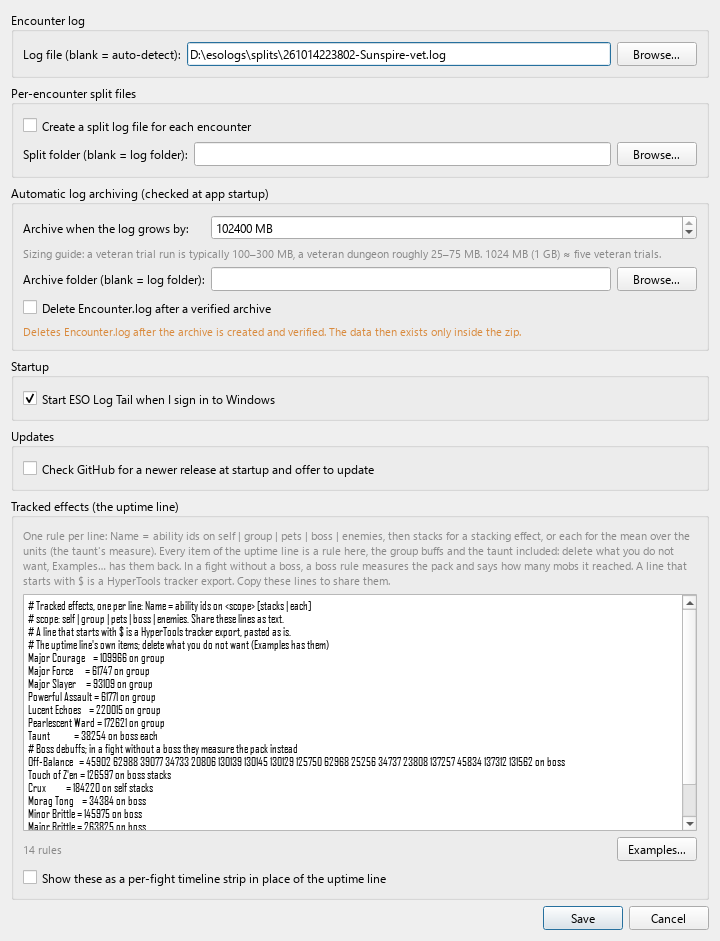
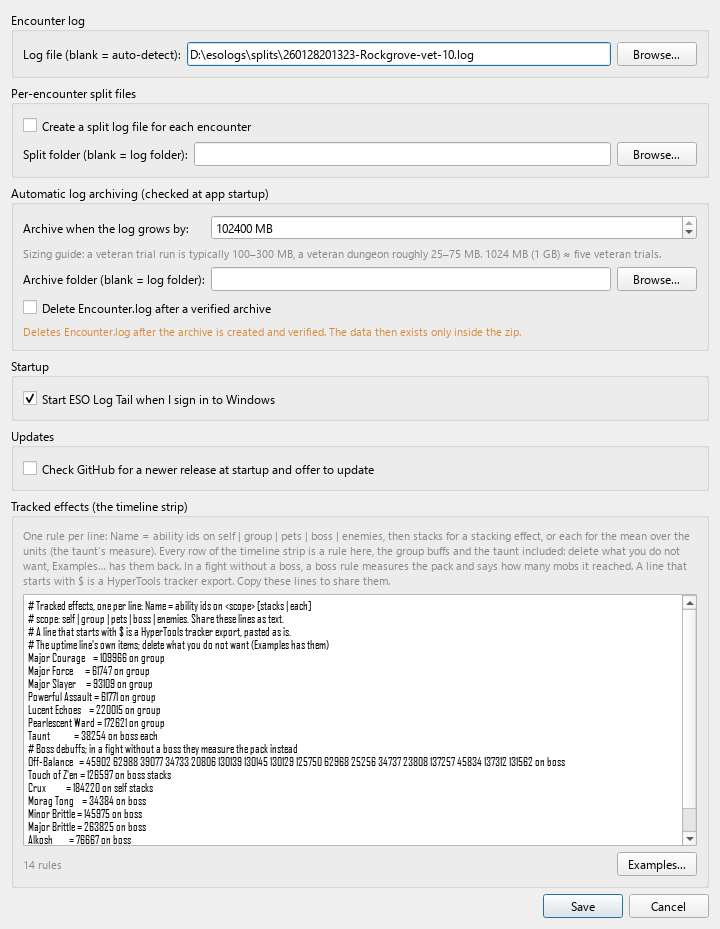
feat: the timeline strip is always on and the text uptime line goes (#25)
The strip is now the only view of the tracked effects in the fight pane:
the Settings checkbox and the experimental.buff_timeline key are gone (an
old config's key, either way, is dropped on load and left out on the next
Save), the engine always records the timeline, and the fight pane no
longer draws the text uptime line, since each row's label already carries
the rule's text. Copy fight keeps the line. A fight in which none of the
built-in effects was up has no recorded timeline; strip_timeline gives
the strip the fight's length so its tracked rows still show.

The screenshots are regenerated over a Rockgrove vet split log, and
main-window.png now carries the strip, so main-window-buff-timeline.png
goes. Docs, CHANGELOG (#25 and #26) and docs/design.md updated.

diff --git a/tests/unit/test_timeline_strip.py b/tests/unit/test_timeline_strip.py
@@ -1,5 +1,5 @@
 #!/usr/bin/env python3
-"""Offscreen tests for the experimental TimelineStrip widget."""
+"""Offscreen tests for the TimelineStrip widget."""
 
 import os
 import unittest
@@ -212,28 +212,48 @@ class TestTimelineStrip(unittest.TestCase):
 
 
 @unittest.skipUnless(HAVE_QT, 'PySide6 not installed')
-class TestSettingsToggle(unittest.TestCase):
-    """Task 3.1: experimental checkbox round-trips through AppConfig."""
+class TestStripIsAlwaysOn(unittest.TestCase):
+    """Issue #25: the strip is the only view of the rules, with no switch."""
 
-    def test_round_trip(self):
+    def test_the_old_switch_is_dropped_from_a_config_either_way(self):
+        import json
         import tempfile
         from pathlib import Path
         _ensure_app()
         from app_config import AppConfig
+        from app_startup import build_analyzer
         from gui.settings_dialog import SettingsDialog
-        with tempfile.TemporaryDirectory() as td:
-            config = AppConfig(path=Path(td) / 'config.json')
-            self.assertFalse(config.get('experimental.buff_timeline'))
+        for old in (False, True):
+            with tempfile.TemporaryDirectory() as td:
+                path = Path(td) / 'config.json'
+                path.write_text(json.dumps({"experimental": {"buff_timeline": old}}), encoding="utf-8")
+                config = AppConfig(path=path)
+                self.assertIsNone(config.get('experimental.buff_timeline'))
+                self.assertTrue(build_analyzer(config, []).track_buff_timeline)
+                dialog = SettingsDialog(config)
+                self.assertFalse(hasattr(dialog, 'buff_timeline'))  # no checkbox
+                dialog.apply_to_config()
+                config.save()
+                self.assertNotIn('experimental', json.loads(path.read_text(encoding="utf-8")))
+                dialog.deleteLater()
 
-            dialog = SettingsDialog(config)
-            self.assertFalse(dialog.buff_timeline.isChecked())  # default off
-            dialog.buff_timeline.setChecked(True)
-            dialog.apply_to_config()
-            config.save()
-
-            reloaded = AppConfig(path=config.path)
-            self.assertTrue(reloaded.get('experimental.buff_timeline'))
-            dialog.deleteLater()
+    def test_a_fight_without_a_recorded_timeline_still_draws_its_rules(self):
+        from fight_history import FightHistoryEntry
+        from gui.timeline_strip import TimelineStrip, strip_timeline
+        entry = FightHistoryEntry()
+        entry.duration_s = 60.0
+        entry.tracked = [{"name": "Crux", "kind": "stacks", "scope": "self", "text": "Crux:1.0/1",
+                          "uptime_pct": 50.0, "max_stacks": 1,
+                          "intervals": [{"start_ms": 0, "end_ms": 30_000, "stacks": 1, "target": "@me"}]}]
+        self.assertEqual(strip_timeline(entry), {"duration_ms": 60_000, "effects": {}})
+        recorded = {"duration_ms": 60_000, "effects": {"Major Force": []}}
+        entry.buff_timeline = recorded
+        self.assertIs(strip_timeline(entry), recorded)
+        entry.buff_timeline = None
+        strip = TimelineStrip()
+        strip.set_timeline(strip_timeline(entry), entry.tracked)
+        self.assertEqual(strip._rows, ["Crux"])
+        strip.deleteLater()
 
 
 @unittest.skipUnless(HAVE_QT, 'PySide6 not installed')

diff --git a/src/gui/settings_dialog.py b/src/gui/settings_dialog.py
@@ -1,5 +1,5 @@
 """Settings dialog: log path, split files, archiving, startup, updates, and
-the tracked effects with their timeline strip."""
+the tracked effects the timeline strip draws."""
 
 import sys
 from pathlib import Path
@@ -16,7 +16,7 @@ from effect_rules import DEFAULT_RULES, parse_rules
 
 RULES_HELP = ("One rule per line: Name = ability ids on self | group | pets | boss | enemies, "
               "then stacks for a stacking effect, or each for the mean over the units "
-              "(the taunt's measure). Every item of the uptime line is a rule here, the group "
+              "(the taunt's measure). Every row of the timeline strip is a rule here, the group "
               "buffs and the taunt included: delete what you do not want, Examples… has them "
               "back. In a fight without a boss, a boss rule measures the pack and says how many "
               "mobs it reached. A line that starts with $ is a HyperTools tracker export. Copy "
@@ -141,9 +141,9 @@ class SettingsDialog(QDialog):
         update_form.addRow(self.update_check)
         layout.addWidget(update_group)
 
-        # Tracked effects: the rule text, with its parse result underneath,
-        # and the timeline strip that draws the same rules
-        tracking_group = QGroupBox("Tracked effects (the uptime line)")
+        # Tracked effects: the rule text, with its parse result underneath;
+        # the timeline strip above each fight draws them
+        tracking_group = QGroupBox("Tracked effects (the timeline strip)")
         tracking_layout = QVBoxLayout(tracking_group)
         help_label = QLabel(RULES_HELP)
         help_label.setWordWrap(True)
@@ -167,15 +167,6 @@ class SettingsDialog(QDialog):
         tracking_layout.addLayout(rules_row)
         self.rules_edit.textChanged.connect(self._check_rules)
         self._check_rules()
-        # The strip (the config key keeps its original name)
-        self.buff_timeline = QCheckBox(
-            "Show these as a per-fight timeline strip in place of the uptime line")
-        self.buff_timeline.setToolTip(
-            "One row per effect across the fight; hover a segment of the strip for "
-            "who cast the effect and who received it")
-        self.buff_timeline.setChecked(
-            bool(config.get("experimental.buff_timeline", False)))
-        tracking_layout.addWidget(self.buff_timeline)
         layout.addWidget(tracking_group)
 
         buttons = QDialogButtonBox(QDialogButtonBox.Save | QDialogButtonBox.Cancel)
@@ -229,7 +220,6 @@ class SettingsDialog(QDialog):
         self.config.set("archive.size_threshold_mb", self.threshold.value())
         self.config.set("archive.dir", self.archive_dir.value())
         self.config.set("archive.delete_original", self.delete_original.isChecked())
-        self.config.set("experimental.buff_timeline", self.buff_timeline.isChecked())
         self.config.set("update.check_enabled", self.update_check.isChecked())
         if self.update_check.isChecked():
             # Re-enabling checks also clears any skipped version

diff --git a/src/esolog_tail.py b/src/esolog_tail.py
@@ -707,9 +707,9 @@ class ESOLogAnalyzer(ListenerMixin):
         self.player_sessions: Dict[str, Dict] = {}  # handle+name -> {unit_id, name, equipped_abilities, gear_data, last_seen}
         self.unit_id_to_handle: Dict[str, str] = {}  # unit_id -> handle
         
-        # EXPERIMENTAL: per-fight buff/debuff timeline (buff-timeline spec).
-        # Gated by experimental.buff_timeline; nothing is recorded when off.
-        self.track_buff_timeline = False
+        # The per-fight buff/debuff timeline the fight pane's strip draws
+        # (buff-timeline spec). Always on; a test may turn it off
+        self.track_buff_timeline = True
         self.buff_timeline_recorder = BuffTimelineRecorder()
         # The user's tracked effects (effect_rules); build_analyzer sets the
         # rules from the config, an empty tracker records nothing
@@ -1890,7 +1890,7 @@ class ESOLogAnalyzer(ListenerMixin):
 
     def _handle_effect_changed(self, entry: ESOLogEntry):
         """A buff or debuff coming, going or refreshing: the tracked effects
-        (every item of the uptime line), the experimental timeline, and
+        (every item of the uptime line), the timeline strip's built-in rows, and
         enemy health.
 
         Design: an EFFECT_CHANGED line is ``changeType, stackCount,
@@ -1927,7 +1927,7 @@ class ESOLogAnalyzer(ListenerMixin):
             if self.diagnostic and target_unit_id == "31":
                 _console(f"{Fore.MAGENTA}[DIAGNOSTIC] EFFECT_CHANGED for unit_id 31: {entry.fields[9:12] if len(entry.fields) >= 12 else 'insufficient fields'}{Style.RESET_ALL}")
 
-            # EXPERIMENTAL timeline capture
+            # The timeline strip's built-in rows
             if self.track_buff_timeline and extracted is not None:
                 self.buff_timeline_recorder.record(
                     effect_type, ability_id, source_unit_id, target_unit_id,
@@ -2160,7 +2160,7 @@ class ESOLogAnalyzer(ListenerMixin):
         entry.death_recaps = list(self.fight_death_recaps)
         entry.first_damage_dealer = enc.first_damage_dealer
 
-        # EXPERIMENTAL buff/debuff timeline (None whenever the gate is off)
+        # The buff/debuff timeline (None when none of its effects was up)
         if self.track_buff_timeline:
             entry.buff_timeline = self.buff_timeline_recorder.snapshot_fight(
                 enc.start_time, enc.end_time, self._resolve_timeline_name)

diff --git a/src/gui/timeline_strip.py b/src/gui/timeline_strip.py
@@ -1,5 +1,7 @@
 """
-EXPERIMENTAL compact buff/debuff timeline strip (buff-timeline spec).
+Compact buff/debuff timeline strip (buff-timeline spec): the only view of
+the tracked effects in the fight pane since issue #25, the text uptime line
+surviving only in the plain-text copy.
 
 One thin colored row per tracked effect across the fight duration, with the
 effect's uptime % in its label, whose effect it is beside it (group, self,
@@ -18,8 +20,12 @@ Esc, and deletes itself on close: Qt owns it through its parent, and it
 holds nothing of the strip, so the garbage collector never frees it off
 the UI thread.
 
-Deliberately tiny: it must never crowd the fight summary. Hidden entirely
-when the displayed fight carries no timeline data.
+Buffs come first and debuffs after, with a divider between (issue #26).
+
+Deliberately tiny: it must never crowd the fight summary. A fight in which
+none of the built-in effects was up has no recorded timeline; its tracked
+rows are still drawn over the fight's duration (main_window passes it).
+Hidden entirely when nothing was up at all.
 """
 
 from html import escape
@@ -109,6 +115,16 @@ def _fmt_tick(ms: int) -> str:
     if total >= 60:
         return f"{total // 60}m{total % 60:02d}"
     return f"{total}s"
+
+
+def strip_timeline(entry):
+    """The timeline to draw for a fight entry: its recorded one, or, for a
+    fight in which none of the built-in effects was up (none was recorded),
+    an empty one over the fight's length, so its tracked rows still show."""
+    timeline = getattr(entry, "buff_timeline", None)
+    if timeline:
+        return timeline
+    return {"duration_ms": int((getattr(entry, "duration_s", 0) or 0) * 1000), "effects": {}}
 
 
 def uptime_pct(intervals, duration_ms: int) -> int:

diff --git a/tests/unit/test_gui.py b/tests/unit/test_gui.py
@@ -175,19 +175,20 @@ class TestReviewMatchesGolden(GuiTestCase):
         self.assertIn('@brainsnorkel', text_out)
         self.assertNotIn("['", text_out)
 
-    def test_buff_summary_text_suppressed_when_timeline_present(self):
+    def test_the_uptime_line_is_only_in_the_plain_copy(self):
+        """Issue #25: the strip shows the rules in the pane; the copy keeps
+        the text line, timeline or not."""
         from fight_history import FightHistoryEntry
-        from gui.fight_render import render_html
+        from gui.fight_render import render_html, render_plain_text
         entry = FightHistoryEntry()
         entry.zone_name = 'Coral Aerie'
         entry.buff_summary = 'MCourage:87% Mslayer:48%'
-        # No timeline: text uptimes shown as fallback
-        self.assertIn('MCourage:87%', render_html(entry, detailed=False))
-        # Timeline present: the graph replaces the text line
-        entry.buff_timeline = {'duration_ms': 60_000, 'effects': {
-            'Major Courage': [{'start_ms': 0, 'end_ms': 1000,
-                               'source': 'a', 'target': 'b'}]}}
-        self.assertNotIn('MCourage:87%', render_html(entry, detailed=False))
+        for timeline in (None, {'duration_ms': 60_000, 'effects': {
+                'Major Courage': [{'start_ms': 0, 'end_ms': 1000, 'source': 'a', 'target': 'b'}]}}):
+            entry.buff_timeline = timeline
+            for detailed in (False, True):
+                self.assertNotIn('MCourage:87%', render_html(entry, detailed=detailed))
+            self.assertIn('MCourage:87%', render_plain_text(entry))
 
 
 @unittest.skipUnless(HAVE_QT, 'PySide6 not installed')

diff --git a/scripts/capture_screenshots.py b/scripts/capture_screenshots.py
@@ -12,8 +12,7 @@ guide expects (twelve players, a death, taunts). Output goes to
 docs/screencaps/ (--out to change), overwriting the same file names each
 time, so the pictures stay in step with the app:
 
-    main-window.png                 detail view, a boss fight selected
-    main-window-buff-timeline.png   the same with the experimental timeline strip
+    main-window.png                 detail view and timeline strip, a boss fight selected
     compact-view.png                Detail view off
     search.png                      a search in the fight
     build-window.png                one player's build window
@@ -74,7 +73,6 @@ def main():
         "log_path": str(log),
         "split": {"enabled": False},
         "archive": {"delete_original": False, "size_threshold_mb": 1000000},
-        "experimental": {"buff_timeline": False},
         "update": {"check_enabled": False},
     }), encoding="utf-8")
 
@@ -192,18 +190,6 @@ def main():
     save(win, "review-mode.png")
     win._exit_review()
     pump(1)
-
-    # The experimental timeline strip: what Save does in Settings
-    win.config.set("experimental.buff_timeline", True)
-    win.config.save()
-    win._restart_pending = True
-    started["flag"] = False
-    win.request_restart.emit()
-    pump(600, until_started=True)
-    fights = win._current_fights()
-    win.history_list.setCurrentRow(pick(fights))
-    pump(9)  # the status message again, as above
-    save(win, "main-window-buff-timeline.png")
 
     win.close()
     pump(1)

diff --git a/src/app_config.py b/src/app_config.py
@@ -35,9 +35,6 @@ DEFAULTS = {
     "history": {
         "load_recent_mb": 0,    # 0 -> attach at end; N -> parse trailing N MB
     },
-    "experimental": {
-        "buff_timeline": False,  # compact per-fight buff/debuff timeline strip
-    },
     "tracking": {
         "rules": DEFAULT_RULES,  # tracked effects, one rule per line (effect_rules)
         "version": TRACKING_VERSION,
@@ -83,6 +80,10 @@ class AppConfig:
         front of it, by name, so a rule the user had already written under
         the same name stays theirs. Nothing is written back; the version
         is saved with the next Save, and the top-up is harmless to repeat.
+
+        The timeline strip's old switch (experimental.buff_timeline, until
+        issue #25 made the strip the only view of the rules) is dropped
+        here, so the next Save leaves it out of the file.
         """
         try:
             stored = json.loads(self.path.read_text(encoding="utf-8"))
@@ -91,6 +92,11 @@ class AppConfig:
         if not isinstance(stored, dict):
             return
         self.data = _deep_merge(DEFAULTS, stored)
+        experimental = self.data.get("experimental")
+        if isinstance(experimental, dict):
+            experimental.pop("buff_timeline", None)
+            if not experimental:
+                del self.data["experimental"]
         tracking = stored.get("tracking")
         if (isinstance(tracking, dict) and isinstance(tracking.get("rules"), str)
                 and "version" not in tracking):

diff --git a/src/gui/main_window.py b/src/gui/main_window.py
@@ -31,7 +31,7 @@ from gui.fight_render import (
 )
 from gui.fight_view import FightView
 from gui.settings_dialog import SettingsDialog
-from gui.timeline_strip import TimelineStrip
+from gui.timeline_strip import TimelineStrip, strip_timeline
 from version import __version__
 
 # Freshness state thresholds (log-freshness spec)
@@ -577,8 +577,7 @@ class MainWindow(QMainWindow):
         self._follow_live = (self._review_fights is None
                              and row == len(fights) - 1)
         entry = fights[row]
-        self.timeline_strip.set_timeline(getattr(entry, 'buff_timeline', None),
-                                         getattr(entry, 'tracked', None))
+        self.timeline_strip.set_timeline(strip_timeline(entry), getattr(entry, 'tracked', None))
         # Ability icons replace names in the detail view; the hover text, the
         # ESO-Hub link and the searchable name of each icon come from the
         # same per-slot data. Death-recap buttons and the build link on each

diff --git a/src/gui/fight_render.py b/src/gui/fight_render.py
@@ -567,12 +567,9 @@ def render_html(entry, detailed: bool, dark: bool = False,
         f"<span style='font-size:{base_pt * 1.3:.2f}pt;font-weight:bold'>{title}</span>"
         f"&nbsp;&nbsp; <span style='color:{muted}'>{stats}</span></p>",
     ]
-    # Text uptime line only when there is no timeline strip to show it
-    # (the graph carries the uptimes when the experiment is on)
-    has_timeline = bool(getattr(entry, "buff_timeline", None)
-                        and entry.buff_timeline.get("effects"))
-    if entry.buff_summary and not has_timeline:
-        parts.append(f"<p style='margin:2px 0'>{e(_join(entry.buff_summary))}</p>")
+    # No text uptime line: the timeline strip above the pane shows every
+    # tracked rule, its label the rule's text (issue #25). The plain copy
+    # keeps the line, since text is all a paste can carry
 
     parts.append("<table cellpadding='3' cellspacing='0' width='100%'>")
     first_dealer = str(entry.first_damage_dealer or "")

diff --git a/src/buff_timeline.py b/src/buff_timeline.py
@@ -1,10 +1,11 @@
 """
-EXPERIMENTAL buff/debuff timeline recording (buff-timeline spec).
+Buff/debuff timeline recording (buff-timeline spec).
 
 Records the active intervals of a handful of raid-defining effects with
-cast/receive attribution, so the GUI can draw a compact per-fight timeline
-strip. Recording is opt-in (`experimental.buff_timeline`); when the analyzer's
-gate is off, record() is never called and nothing is retained.
+cast/receive attribution, for the built-in rows of the per-fight timeline
+strip (the tracked-effect rules bring the rest, effect_rules). Recording is
+always on since the strip became the only view of the rules (issue #25);
+the analyzer's track_buff_timeline gate remains for tests.
 
 Interval times are raw log-relative milliseconds; snapshot_fight() clips them
 to a fight's [start, end] window and rebases them to fight-relative ms.

diff --git a/src/app_startup.py b/src/app_startup.py
@@ -40,8 +40,6 @@ def resolve_log_path(config: AppConfig) -> Optional[Path]:
 def build_analyzer(config: AppConfig,
                    listeners: List[AnalyzerListener]) -> ESOLogAnalyzer:
     analyzer = ESOLogAnalyzer()
-    analyzer.track_buff_timeline = bool(
-        config.get("experimental.buff_timeline", False))
     # The user's tracked effects; a line that will not parse is skipped
     # here and reported in Settings
     rules, _errors = parse_rules(config.get("tracking.rules", DEFAULT_RULES) or "")

diff --git a/tests/unit/test_restart_race.py b/tests/unit/test_restart_race.py
@@ -61,7 +61,7 @@ class TestSaveDuringAReplay(unittest.TestCase):
         def accept():
             dialog = next((w for w in self.app.topLevelWidgets()
                            if isinstance(w, QDialog) and w.isVisible()
-                           and hasattr(w, "buff_timeline")), None)
+                           and hasattr(w, "rules_edit")), None)
             if dialog is None:
                 QTimer.singleShot(10, accept)
             else:
